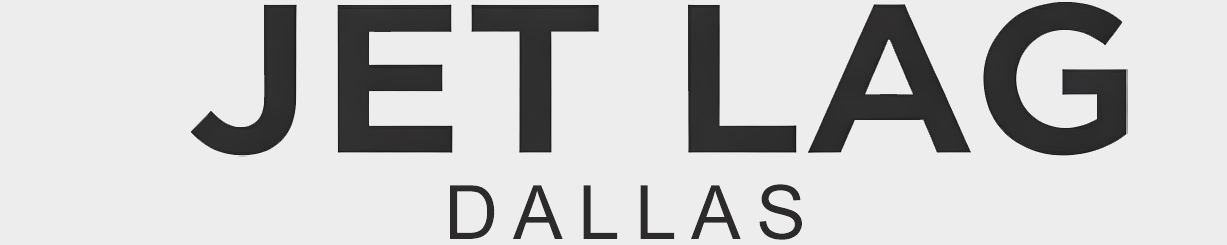
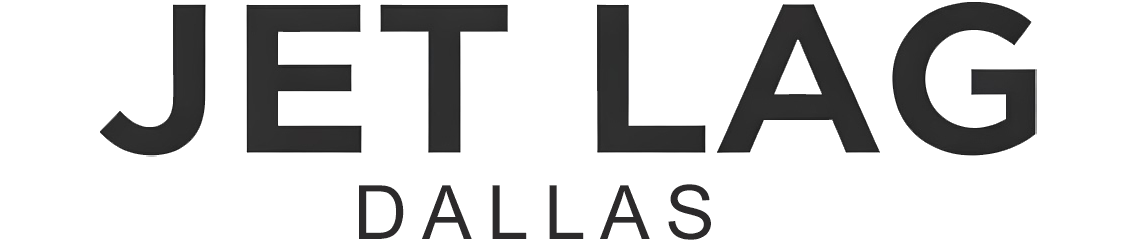
added grid and changed categories

diff --git a/frontend/src/app/navCategories.tsx b/frontend/src/app/navCategories.tsx
@@ -1,11 +1,25 @@
 export default function NavCategories() {
     return (
-        <ul className="border-b border-t py-2 border-black flex font-zain gap-8 text-5xl">
-            <li>Fratty</li>
-            <li>Grunge</li>
-            <li>Thoughts</li>
-            <li>Meme</li>
-        </ul>
+        <div className="flex flex-col">
+            <ul className=" border-b border-t py-2 border-black flex font-zain gap-8 text-5xl">
+                <li>Men</li>
+                <li>Women</li>
+                <li>Shirts</li>
+                <li>Shorts</li>
+                <li>Hoodies</li>
+            </ul>
+            <ul className=" justify-center py-2 border-black flex font-zain gap-8 text-xl">
+                
+                <li>Greek</li>
+                <li>Grunge</li>
+                <li>Thoughts</li>
+                <li>Meme</li>
+                <li>Trending</li>
+                <li>Sales</li>
+                <li>Custom</li>
+            </ul>
+        </div>
+        
 
     )
 }

diff --git a/frontend/src/app/Cell.tsx b/frontend/src/app/Cell.tsx
@@ -1,0 +1,21 @@
+import Image from "next/image"
+export default function Cell() {
+    return (
+        <div className=" border-2 border-x-gray-300 mx-2 font-zain text-xl  w-96 h-96">
+            <div className="flex h-3/4 justify-center">
+                <Image
+                            src="/sample3.png"
+                            width={350}
+                            height={350}
+                            alt={"JetLag Dallas"}
+                        />
+            </div>
+            <div className=" px-2">
+                <div className=" text-xl text-orange-500 text-base flex">$15</div>
+                <div className=" text-2xl flex">Sample</div>
+                <div className=" text-sm flex">Men's Grunge</div>
+            </div>
+            
+        </div>
+    )
+}

diff --git a/frontend/src/app/page.tsx b/frontend/src/app/page.tsx
@@ -1,8 +1,12 @@
 import NavBar from "./navBar";
+import DisplayGrid from "./DisplayGrid";
+import Cell from "./Cell";
+import MidSection from "./MidSection";
 export default function Home() {
   return (
     <div>
-        <NavBar></NavBar>
+        <NavBar/>
+        <MidSection/>
     </div>
   );
 }

diff --git a/frontend/src/app/CellRow.tsx b/frontend/src/app/CellRow.tsx
@@ -1,0 +1,10 @@
+import Cell from "./Cell"
+export default function CellRow() {
+    return (
+        <div className="py-12 flex justify-between w-4/5 mx-auto">
+                        <Cell/>
+                        <Cell/>
+                        <Cell/>
+        </div>
+    )
+}

diff --git a/frontend/src/app/DisplayGrid.tsx b/frontend/src/app/DisplayGrid.tsx
@@ -1,0 +1,12 @@
+import Cell from "./Cell"
+import CellRow from "./CellRow"
+export default function DisplayGrid() {
+    return (
+        <div className=" w-4/5">
+            <CellRow/>
+            <CellRow/>
+        </div>
+            
+            
+    )
+}

diff --git a/frontend/src/app/MidSection.tsx b/frontend/src/app/MidSection.tsx
@@ -1,0 +1,8 @@
+import DisplayGrid from "./DisplayGrid"
+export default function MidSection() {
+    return (
+        <div className="flex justify-center py-8">
+            <DisplayGrid/>
+        </div>
+    )
+}

diff --git a/frontend/src/app/globals.css b/frontend/src/app/globals.css
@@ -9,7 +9,7 @@
 
 @media (prefers-color-scheme: dark) {
   :root {
-    --background: #ededed;
+    --background: #ffffff;
     --foreground: #0a0a0a ;
   }
 }
